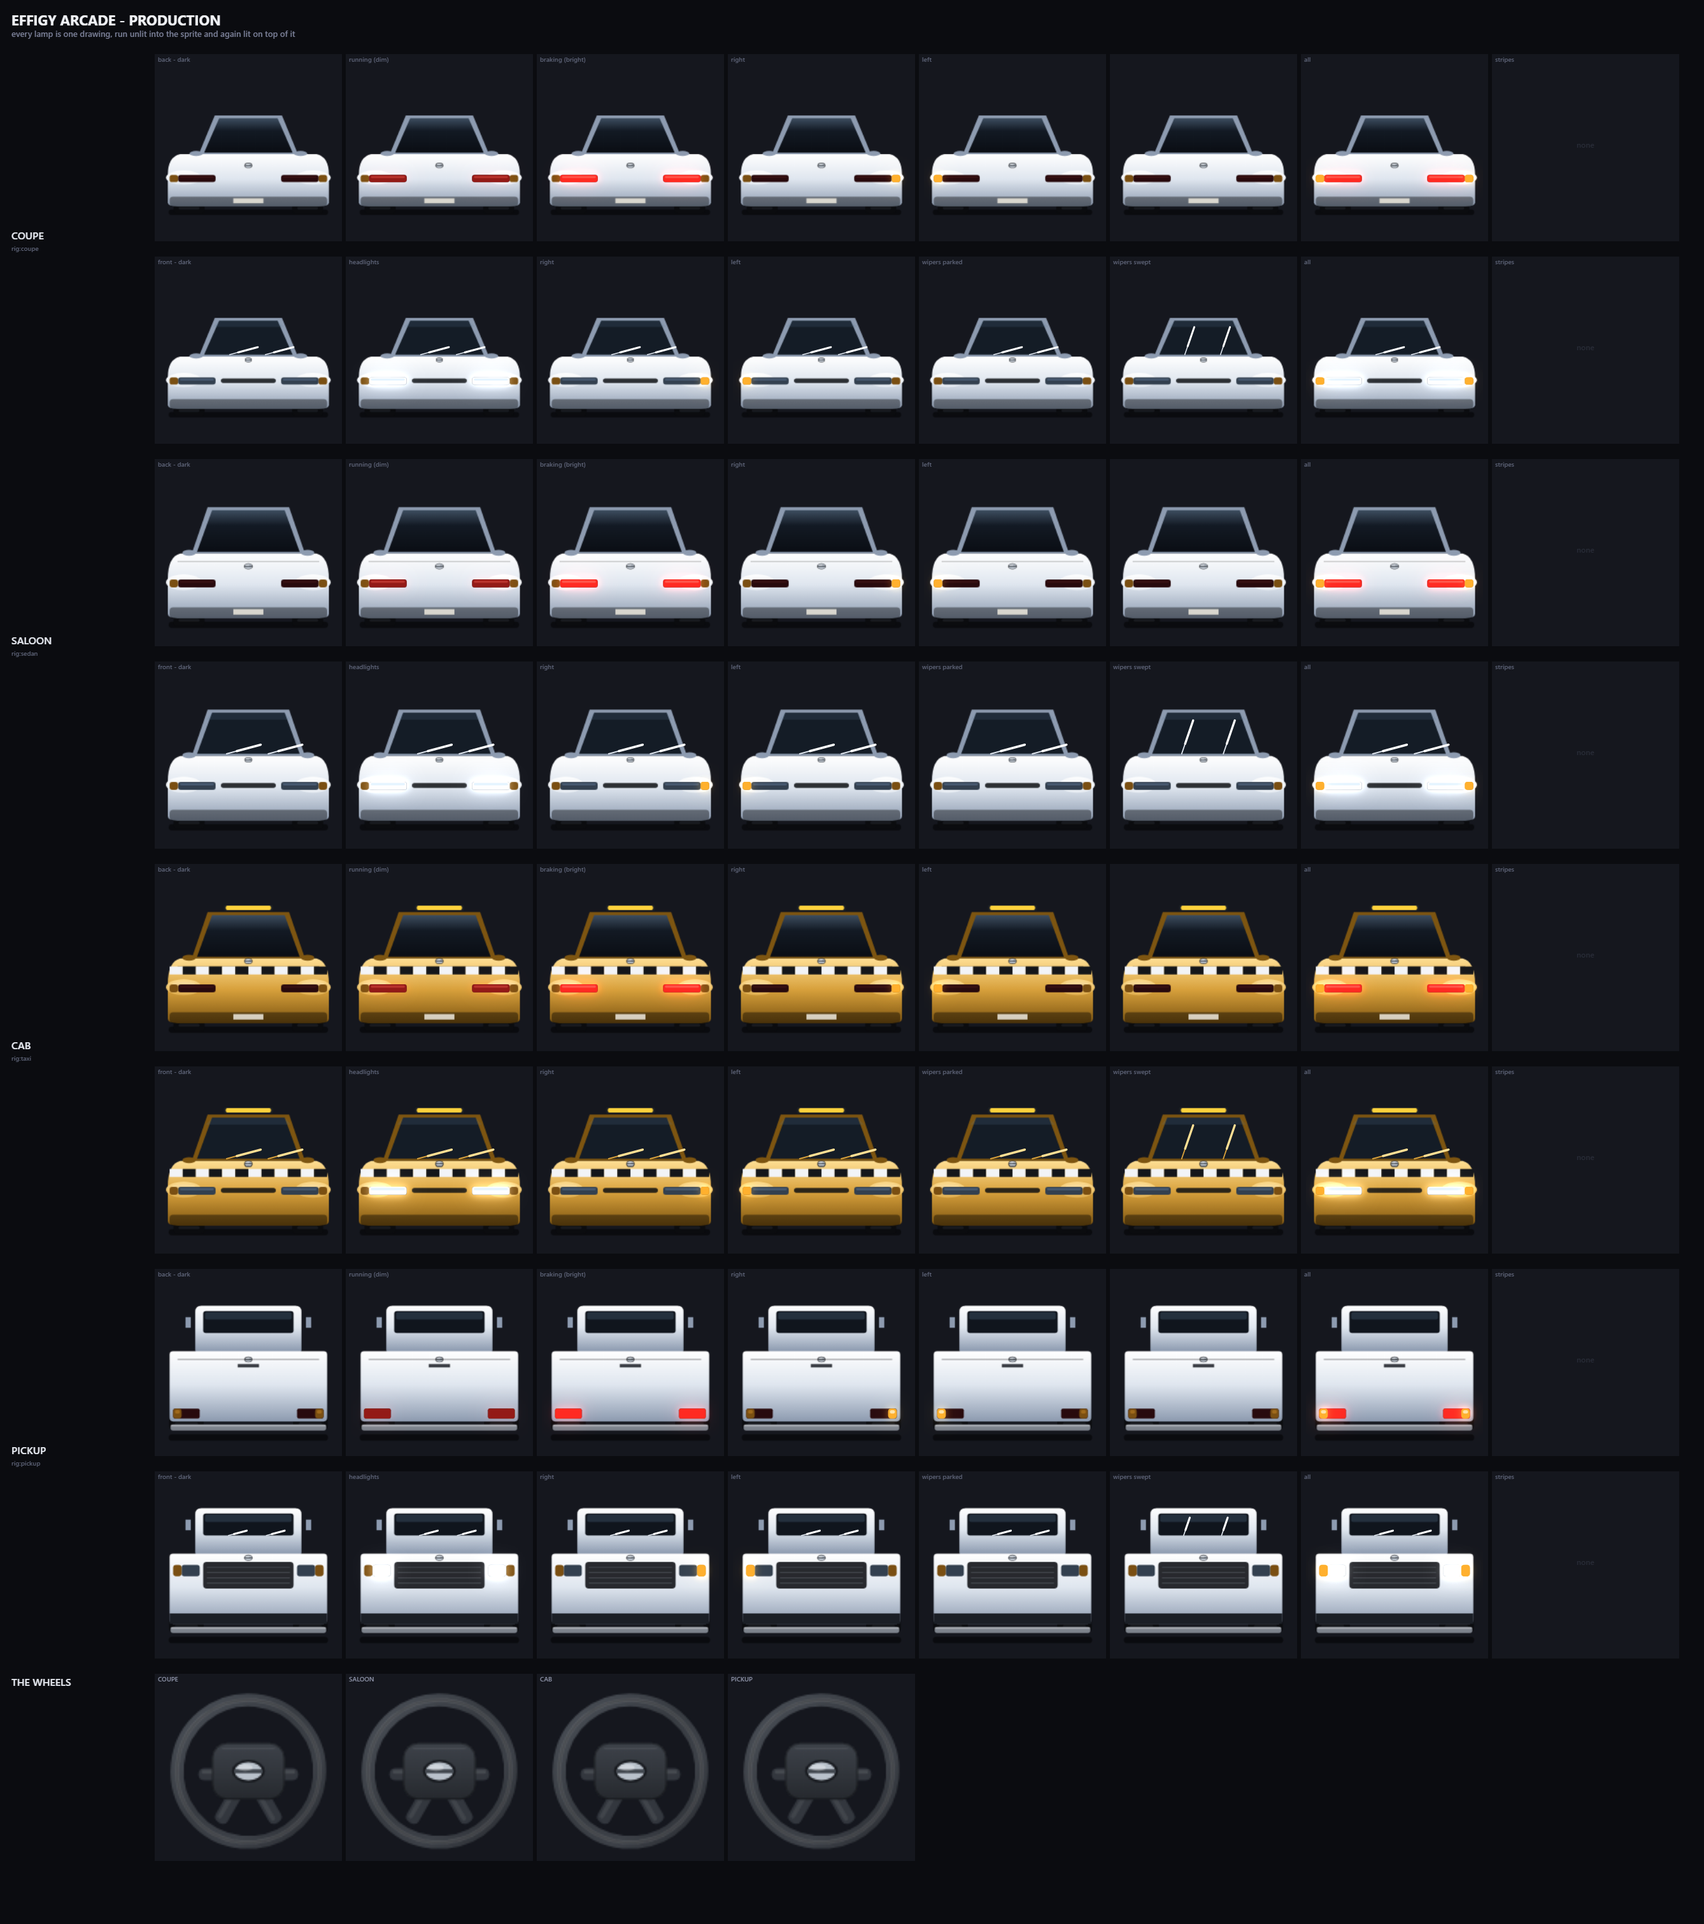
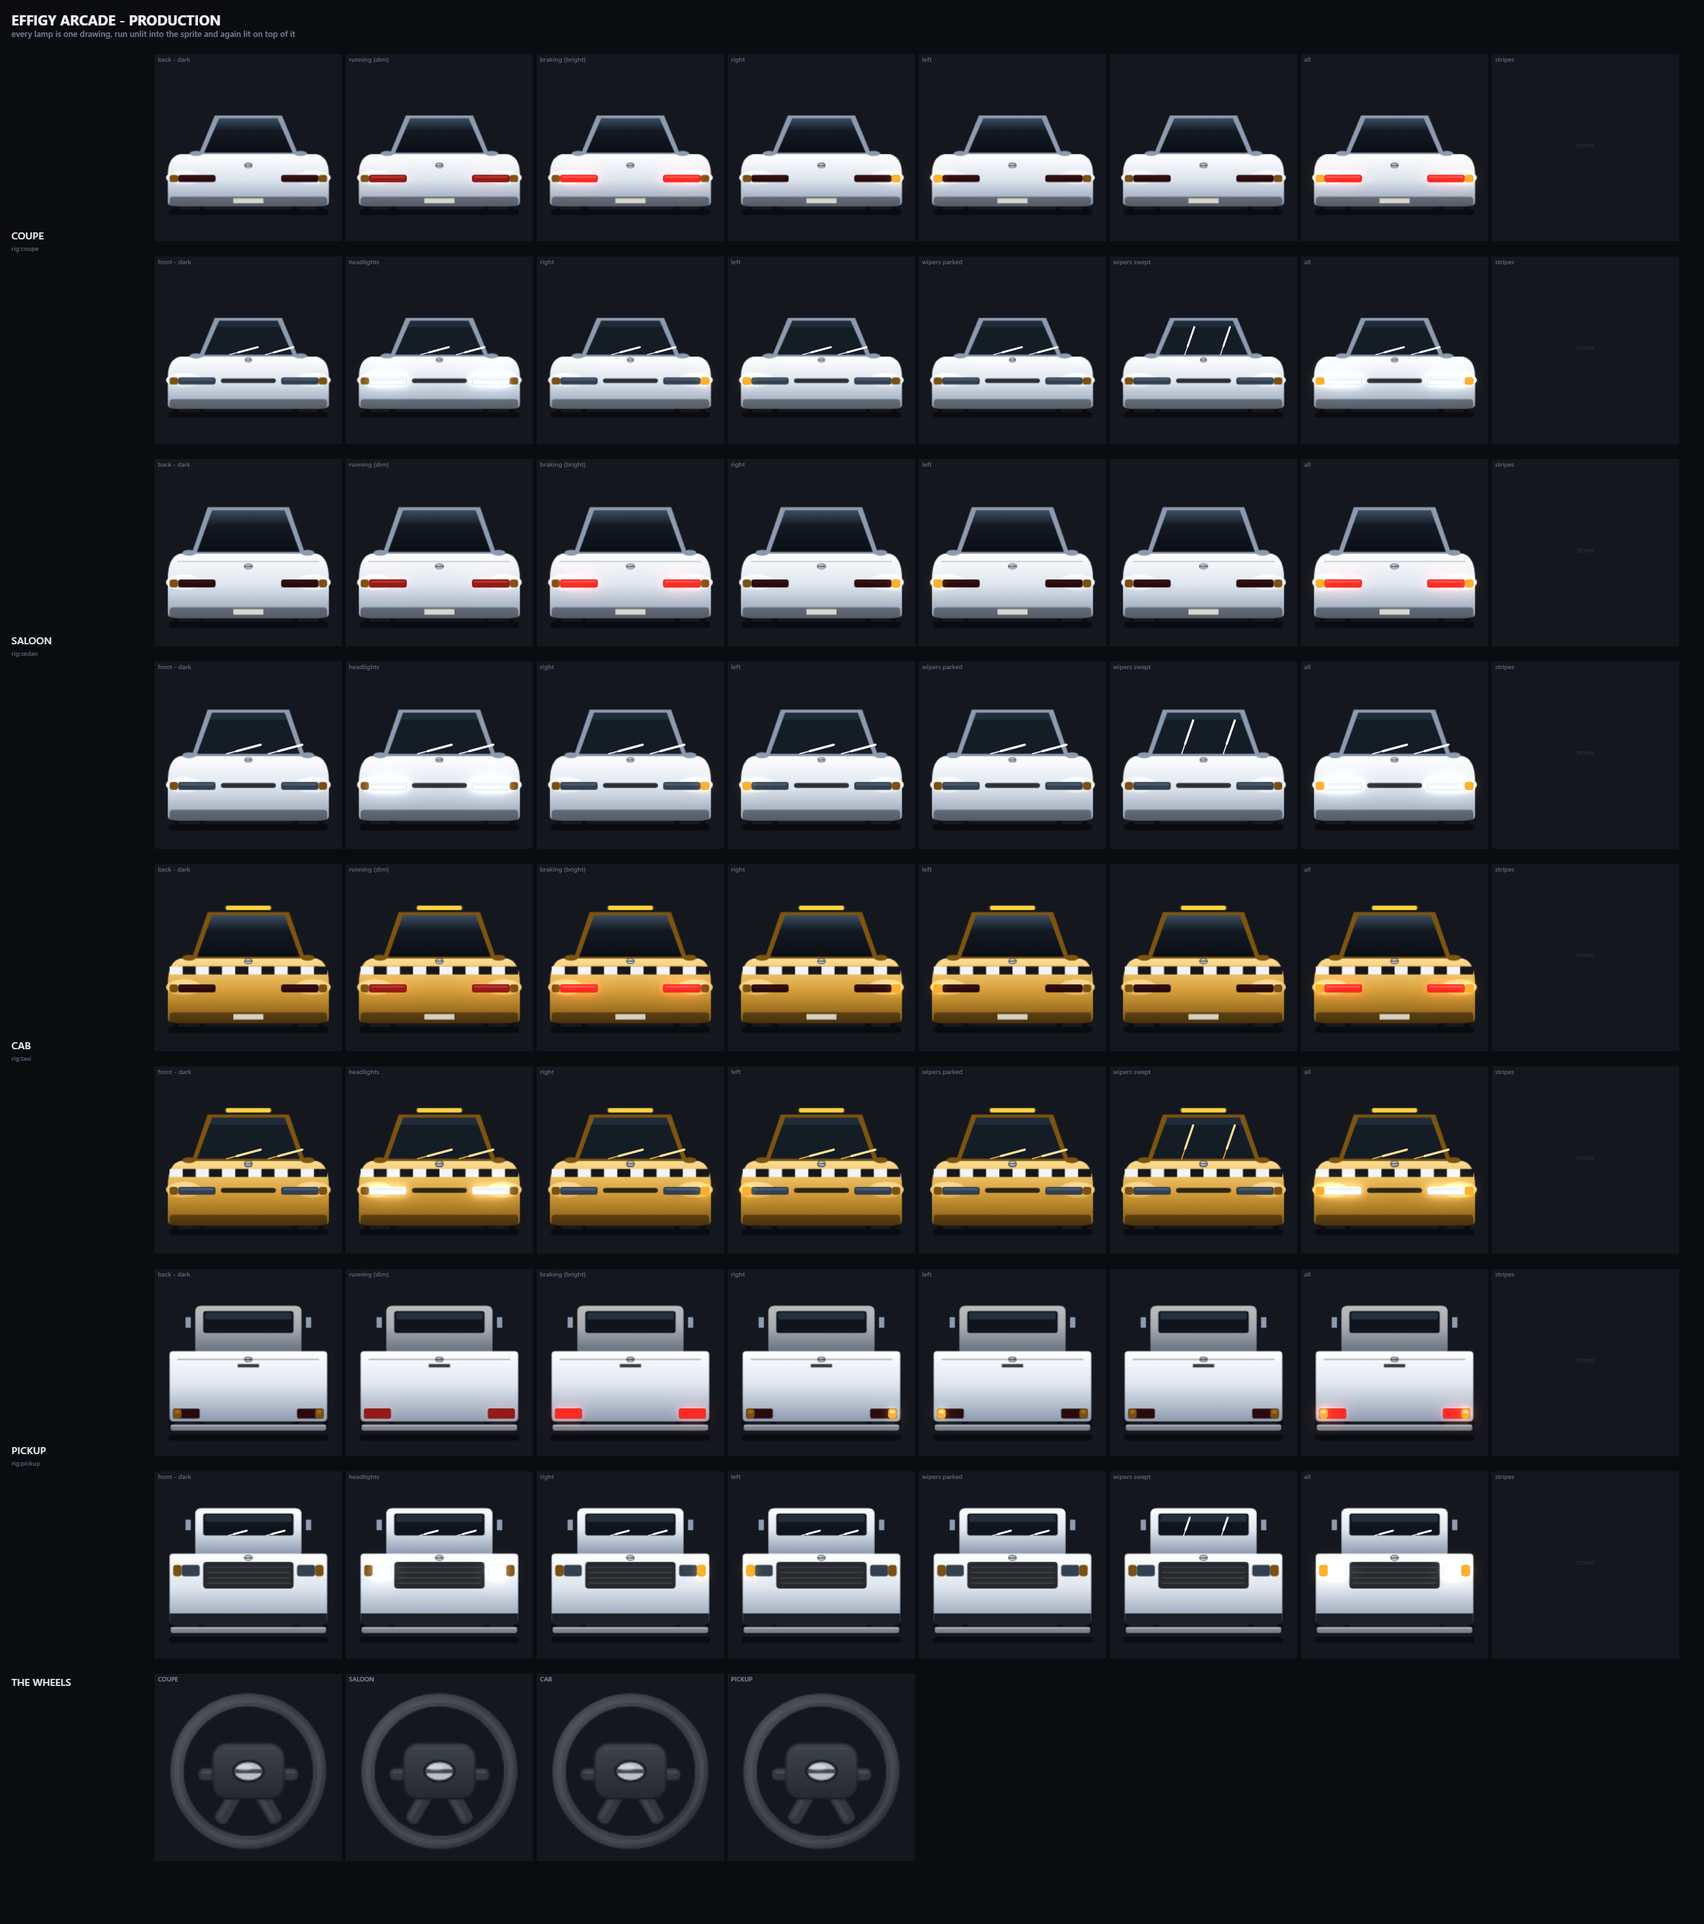
The pickup's cab is shaded at the end it is furthest from
Owner, 2026-09-09: "the pickup's cab should be shaded slightly dark from the back
since it's further from the camera than from the front perspective."

It is the rule the formula wings already take, applied to the one other vehicle
in the fleet whose two ends are made of DIFFERENT PARTS rather than of the same
parts seen from opposite sides. A pickup is a cab at one end and a bed at the
other. From behind you are looking at the bed with the cab beyond it; from the
front it is the cab you are standing at. Both ends drew the cab in the body's own
gradient, so neither view had a far end.

The bed is deliberately untouched, and that is the half that makes it work. The
bed is the near end at the rear view and it should stay the brightest thing
there. A cab darkened against an equally bright bed reads as depth; darkening
both would only be a darker truck.

It changes colour and not shape, so the seventeen silhouettes are unchanged.

This is the second half of a principle worth stating plainly: two ends of a
vehicle share one outline, so what tells the player which end they are looking at
is the detail inside it - and depth is one of those details. Any vehicle whose
two ends are different parts should say which part is nearer.

RLG-193, UNT-239.

diff --git a/road.js b/road.js
@@ -256,7 +256,7 @@ const PLAYER_Z = CAM_H*CAM_D;
    worker serves scripts network-first with a cache fallback, so a device can end
    up with a fresh shell beside a cached engine, and the tag says MIXED when it
    does. Bumped with `Arcade.version`, in the same commit, every time. */
-window.ROAD_BUILD = '0.13.64';
+window.ROAD_BUILD = '0.13.65';
 
 const LANE_X = [-0.75,-0.25,0.25,0.75];
 /* ---- ONE LANE, and the unit every lateral move is written in ---------------
@@ -4263,8 +4263,30 @@ function paintRig(kind, o){
       /* narrow cab up top, wide open BED below — the giveaway silhouette */
       const cabTop = h*0.10, bedTop = h*0.40, bot = cy - h*0.135;
       vehicleTyres(g, w, h, 'pickup', bot);
+      /* ---- THE CAB IS THE FAR END FROM HERE (owner, 2026-09-09) --------
+         "the pickup's cab should be shaded slightly dark from the back since
+         it's further from the camera than from the front perspective."
+
+         IT IS THE RULE THE FORMULA WINGS ALREADY TAKE ([[RLG-185]]). A pickup
+         is a cab at one end and a bed at the other, so from behind you are
+         looking at the bed with the cab beyond it, and from the front it is the
+         cab you are standing at. Both ends drew the cab in the body's own
+         gradient, so neither view had a far end.
+
+         THE BED IS UNTOUCHED, and that is the half that makes it work. It is
+         the near end at this view and it should stay the brightest thing here -
+         a cab darkened against an equally bright bed reads as depth; darkening
+         both would just be a darker truck.
+         ---------------------------------------------------------------- */
+      const farCab = (y0, y1) => {
+        const b = g.createLinearGradient(0, y0, 0, y1);
+        b.addColorStop(0, shade(P.hi, 0.74));
+        b.addColorStop(0.48, shade(P.body, 0.74));
+        b.addColorStop(1, shade(P.lo, 0.74));
+        return b;
+      };
       /* the cab */
-      g.fillStyle = grad(cabTop, bedTop);
+      g.fillStyle = farCab(cabTop, bedTop);
       rr(g, w*0.20, cabTop, w*0.60, bedTop-cabTop+h*0.03, w*0.035); g.fill();
       g.fillStyle='#10151d';
       rr(g, w*0.245, cabTop+h*0.035, w*0.51, h*0.145, 3); g.fill();

diff --git a/arcade.js b/arcade.js
@@ -44,7 +44,7 @@ var A = window.Arcade = window.Arcade || {};
    over would have said "nearly done" about work that has barely started. The
    version tracks THIS product. The maturity of the engine underneath it is
    recorded in the git history, which came across whole. */
-A.version = '0.13.64';
+A.version = '0.13.65';
 
 /* ---- WHICH BUILD AM I PLAYING? -------------------------------------------
    Asked for by the owner, 2026-08-29, and it is a testing tool rather than

diff --git a/docs/fragments/EVD-608.md b/docs/fragments/EVD-608.md
@@ -1,0 +1,74 @@
++++
+id                = "EVD-608"
+kind              = "evidence"
+status            = "recorded"
+step              = "shading the pickup's rear cab changes colour and not shape: the seventeen silhouettes still match"
+unit              = "UNT-239"
+command           = "P:\\Code_Continuum\\Projects\\In-Dev\\Effigy_Arcade\\.venv\\Scripts\\python.exe tools/car-ends-test.py"
+exit_code         = 0
+duration_ms       = 6179
+output_bytes      = 3668
+output_sha        = "ebbfcd5f1a971ba015cb2fd8d597e2f6"
+store_stamp       = "bc6f080fe9164410"
+created           = "2026-09-09T19:05:27-04:00"
+created_precision = "second"
+supersedes        = []
+blocks            = []
+caused_by         = []
+see_also          = []
++++
+
+### EVD-608 — step `shading the pickup's rear cab changes colour and not shape: the seventeen silhouettes still match` of [[UNT-239]]
+
+- Ran: `P:\Code_Continuum\Projects\In-Dev\Effigy_Arcade\.venv\Scripts\python.exe tools/car-ends-test.py`
+- Result: **exit 0**, in 6179 ms
+- Output: 3668 bytes, sha256 `ebbfcd5f1a971ba015cb2fd8d597e2f6`
+- Store stamp at the time: `bc6f080fe9164410`
+
+**Output** — head only; the digest above covers the whole of it, so this excerpt cannot be selective without saying so.
+
+```
+car-ends-test  .  every car, its front against its own back
+  browser: playwright bundled chromium (pinned)
+  CAR             back WxH front WxH       dW       dH
+  AMBULANCE       192x166   192x166         0        0
+  APEX            214x99    214x99          0        0
+  CAB             188x145   188x145         0        0
+  COMET           214x99    214x99          0        0
+  COUPE           192x116   192x116         0        0
+  CREST           220x142   220x141         0       -1   <-- differs
+  CRUISER         188x146   188x146         0        0
+  LORRY           210x239   210x239         0        0
+  MATADOR         220x113   220x112         0       -1   <-- differs
+  MUSCLE          196x126   196x126         0        0
+  PICKUP          186x158   186x158         0        0
+  ROADSTER        192x104   192x104         0        0
+  SALOON          188x137   188x137         0        0
+  STALLION        220x126   220x125         0       -1   <-- differs
+  TUNER           192x116   192x116         0        0
+  VAN             192x158   192x158         0        0
+  VECTOR          214x99    214x99          0        0
+
+  CAR              meanErr  worstCol   silhouette
+  AMBULANCE           0.0%      0.0%   match
+  APEX                0.0%      0.0%   match
+  CAB                 0.0%      0.0%   match
+  COMET               0.0%      0.0%   match
+  COUPE               0.0%      0.0%   match
+  CREST               0.4%      0.7%   match
+  CRUISER             0.1%      0.7%   match
+  LORRY               0.0%      0.0%   match
+  MATADOR             0.6%      0.9%   match
+  MUSCLE              0.0%      0.0%   match
+  PICKUP              0.0%      0.0%   match
+  ROADSTER            0.0%      0.0%   match
+  SALOON              0.0%      0.0%   match
+  STALLION            0.6%      0.8%   match
+  TUNER               0.0%      0.0%   match
+  VAN                 0.0%      0.0%   match
+  VECTOR              0.0%      0.0%   match
+  ok    every car had its outline read   17 profiled
+... 25 more line(s), covered by the digest
+```
+
+*Written by `step.py` as a byproduct of running the step. **Nobody attested to this** ([[RLG-081]]).*

diff --git a/docs/fragments/THR-001.md b/docs/fragments/THR-001.md
@@ -3,8 +3,8 @@ id                = "THR-001"
 kind              = "thread"
 status            = "current"
 writer            = "EffigyMedia"
-focus             = "UNT-238 closed - nothing open"
-next_action       = "The pickup's cab shaded darker at the rear, because from behind it is the far end of the truck - the owner asked for it on 2026-09-09 and it is the rule the formula wings already take. Then a garage toggle hiding the unlocked production and utility vehicles; then rename the RACER personality to OUTLAW and RIVAL to RACER; then LORRY to SEMI; then RLG-181, RLG-174, RLG-175."
+focus             = "UNT-239 closed - nothing open"
+next_action       = "A garage toggle that hides the unlocked production and utility vehicles - the owner asked for it on 2026-09-09, calling them novelty vehicles that clutter the picker. Then rename the RACER personality to OUTLAW and the RIVAL personality to RACER; then LORRY to SEMI; then RLG-181, RLG-174, RLG-175."
 next_origin       = "stated"
 created           = "2026-08-28T09:15:21-04:00"
 created_precision = "second"
@@ -16,9 +16,9 @@ see_also          = []
 
 ### THR-001 — thread: EffigyMedia
 
-**▶ Focus** — UNT-238 closed - nothing open
+**▶ Focus** — UNT-239 closed - nothing open
 
-**▶ Next action** — **"The pickup's cab shaded darker at the rear, because from behind it is the far end of the truck - the owner asked for it on 2026-09-09 and it is the rule the formula wings already take. Then a garage toggle hiding the unlocked production and utility vehicles; then rename the RACER personality to OUTLAW and RIVAL to RACER; then LORRY to SEMI; then RLG-181, RLG-174, RLG-175."**
+**▶ Next action** — **"A garage toggle that hides the unlocked production and utility vehicles - the owner asked for it on 2026-09-09, calling them novelty vehicles that clutter the picker. Then rename the RACER personality to OUTLAW and the RIVAL personality to RACER; then LORRY to SEMI; then RLG-181, RLG-174, RLG-175."**
 - Origin: `stated` — the owner said it, quoted above; **authoritative** ([[RLG-089]])
 
 **Constraints in force**
@@ -140,4 +140,4 @@ see_also          = []
 - THE SUPERCRUISER UNLOCK PAYS NOTHING (RLG-181, found 2026-09-09). A supercar gold under pursuit writes the `supercruiser` flag, garageBodies has a debug branch for it and the reward screen counts it - but BODY.SUPERCRUISER carries npc:true, so it is not a garage car and never reaches the list. The prize exists and unlocks nothing drivable. Not fixed: making the interceptor drivable is a feature and the owner has not asked for it
 - THE GARAGE CARD CANNOT FIX THE FLEET AND TWO ATTEMPTS PROVED IT. RLG-182 matched the two heights by scaling each end on its own and clipped the width; RLG-184 capped the scale by width and the heights went back out for six cars. The card has one degree of freedom per end and the sprites disagree in two dimensions, so any third attempt at arithmetic on the card is wasted - the drawings have to change
 
-*Maintained continuously — never written at the threshold ([[RLG-089]]). Last touched 2026-09-09T19:04:19-04:00 by unit closed UNT-238.*
+*Maintained continuously — never written at the threshold ([[RLG-089]]). Last touched 2026-09-09T19:05:42-04:00 by unit closed UNT-239.*

diff --git a/docs/fragments/RLG-193.md b/docs/fragments/RLG-193.md
@@ -1,0 +1,35 @@
++++
+id                = "RLG-193"
+kind              = "ruling"
+type              = "fix"
+status            = "in-flight"
+created           = "2026-09-09T19:05:20-04:00"
+created_precision = "second"
+source            = "owner request, 2026-09-09"
+supersedes        = []
+blocks            = []
+caused_by         = []
+see_also          = []
++++
+
+### RLG-193 — The pickup's cab is shaded at the end it is furthest from
+- **RULED 2026-09-09T19:05:20-04:00** — **Owner, 2026-09-09:** *"the pickup's cab should be shaded slightly dark from the back since it's
+further from the camera than from the front perspective."*
+
+**IT IS THE RULE THE FORMULA WINGS ALREADY TAKE** ([[RLG-185]]), applied to the one other vehicle in
+the fleet whose two ends are made of DIFFERENT PARTS rather than of the same parts seen from opposite
+sides. A pickup is a cab at one end and a bed at the other. From behind you are looking at the bed
+with the cab beyond it; from the front it is the cab you are standing at. Both ends drew the cab in
+the body's own gradient, so neither view had a far end.
+
+**THE BED IS DELIBERATELY UNTOUCHED, and that is the half that makes it work.** The bed is the near
+end at the rear view and it should stay the brightest thing there. A cab darkened against an equally
+bright bed reads as depth; darkening both would only be a darker truck.
+
+`shade(..., 0.74)` on all three stops of the cab's gradient, so the cab keeps its own form and its own
+highlight and simply sits further away. The face is unchanged.
+
+**AND IT IS THE SECOND HALF OF A PRINCIPLE WORTH STATING PLAINLY.** Two ends of a vehicle share one
+outline ([[RLG-184]]); what tells the player which end they are looking at is the DETAIL inside it,
+and depth is one of those details. Any vehicle whose two ends are different parts - so far the
+formula cars and the pickup - should say which part is nearer.

diff --git a/docs/fragments/UNT-239.md b/docs/fragments/UNT-239.md
@@ -1,0 +1,24 @@
++++
+id                = "UNT-239"
+kind              = "unit"
+status            = "closed"
+cost              = 7544
+closed            = "2026-09-09T19:05:42-04:00"
+created           = "2026-09-09T19:04:40-04:00"
+created_precision = "second"
+supersedes        = []
+blocks            = []
+caused_by         = []
+see_also          = []
+delegate          = false
+effort            = "medium"
+model             = "claude-sonnet-5"
+ran_on            = "claude-opus-5"
+routing           = "fix"
++++
+
+### UNT-239 - The pickup's cab is shaded at the end it is furthest from
+
+- Routing class: `fix` -> **claude-sonnet-5**, effort **medium**. Bias 1. A known defect with a known cause. ([[RLG-092]])
+- Opened by `unit.py`. **The identity exists before the first edit** ([[RLG-097]]), so the snapshot has somewhere to go.
+- **CLOSED 2026-09-09T19:05:42-04:00** - The pickup's cab is darkened at the rear, where it is the far end of the truck. The bed stays bright because it is the near end there, and that contrast is what reads as depth.

diff --git a/docs/core/changelog.md b/docs/core/changelog.md
@@ -14,6 +14,15 @@ barely started, and 0.9.x would have claimed otherwise.
 
 ---
 
+<a id="v0-13-65"></a>
+## [0.13.65] - 2026-09-09
+- Changed: **the pickup's cab is shaded at the rear, where it is the far end of the truck.** Owner,
+  2026-09-09: "the pickup's cab should be shaded slightly dark from the back since it's further from
+  the camera than from the front perspective." Both ends drew the cab in the body's own gradient, so
+  neither view had a far end. The bed is deliberately untouched: it is the near end at the rear view
+  and staying the brightest thing there is what makes the cab read as being behind it. See
+  [RLG-193](../fragments/RLG-193.md).
+
 <a id="v0-13-64"></a>
 ## [0.13.64] - 2026-09-09
 - Changed: **the CREST's spoiler wears the car's own paint.** Owner, 2026-09-09: "let's make its
